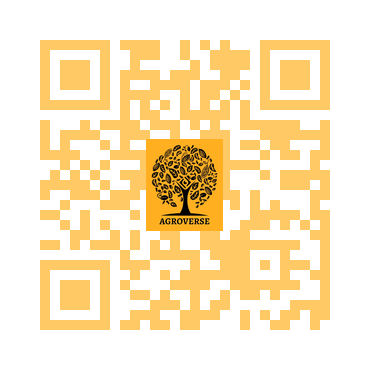
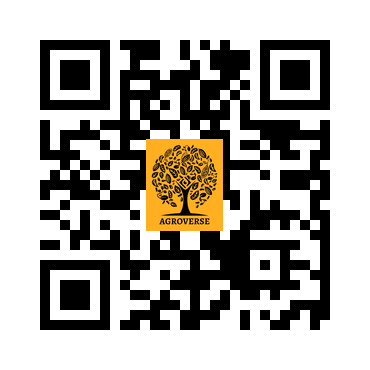
updated the qr code base

diff --git a/python_scripts/agroverse_qr_code_generator/generator.py b/python_scripts/agroverse_qr_code_generator/generator.py
@@ -47,8 +47,8 @@ def generate_qr(url: str, output_file: str, box_size: int = 10, border: int = 4,
     )
     qr.add_data(url)
     qr.make(fit=True)
-    # Generate image with default orange modules (hex FFB020) and white background
-    img = qr.make_image(fill_color="#FFC966", back_color="white")
+    # Generate image with default black modules and white background
+    img = qr.make_image(fill_color="#000000", back_color="white")
     # Overlay logo if provided
     if logo_path:
         img = img.convert("RGBA")
